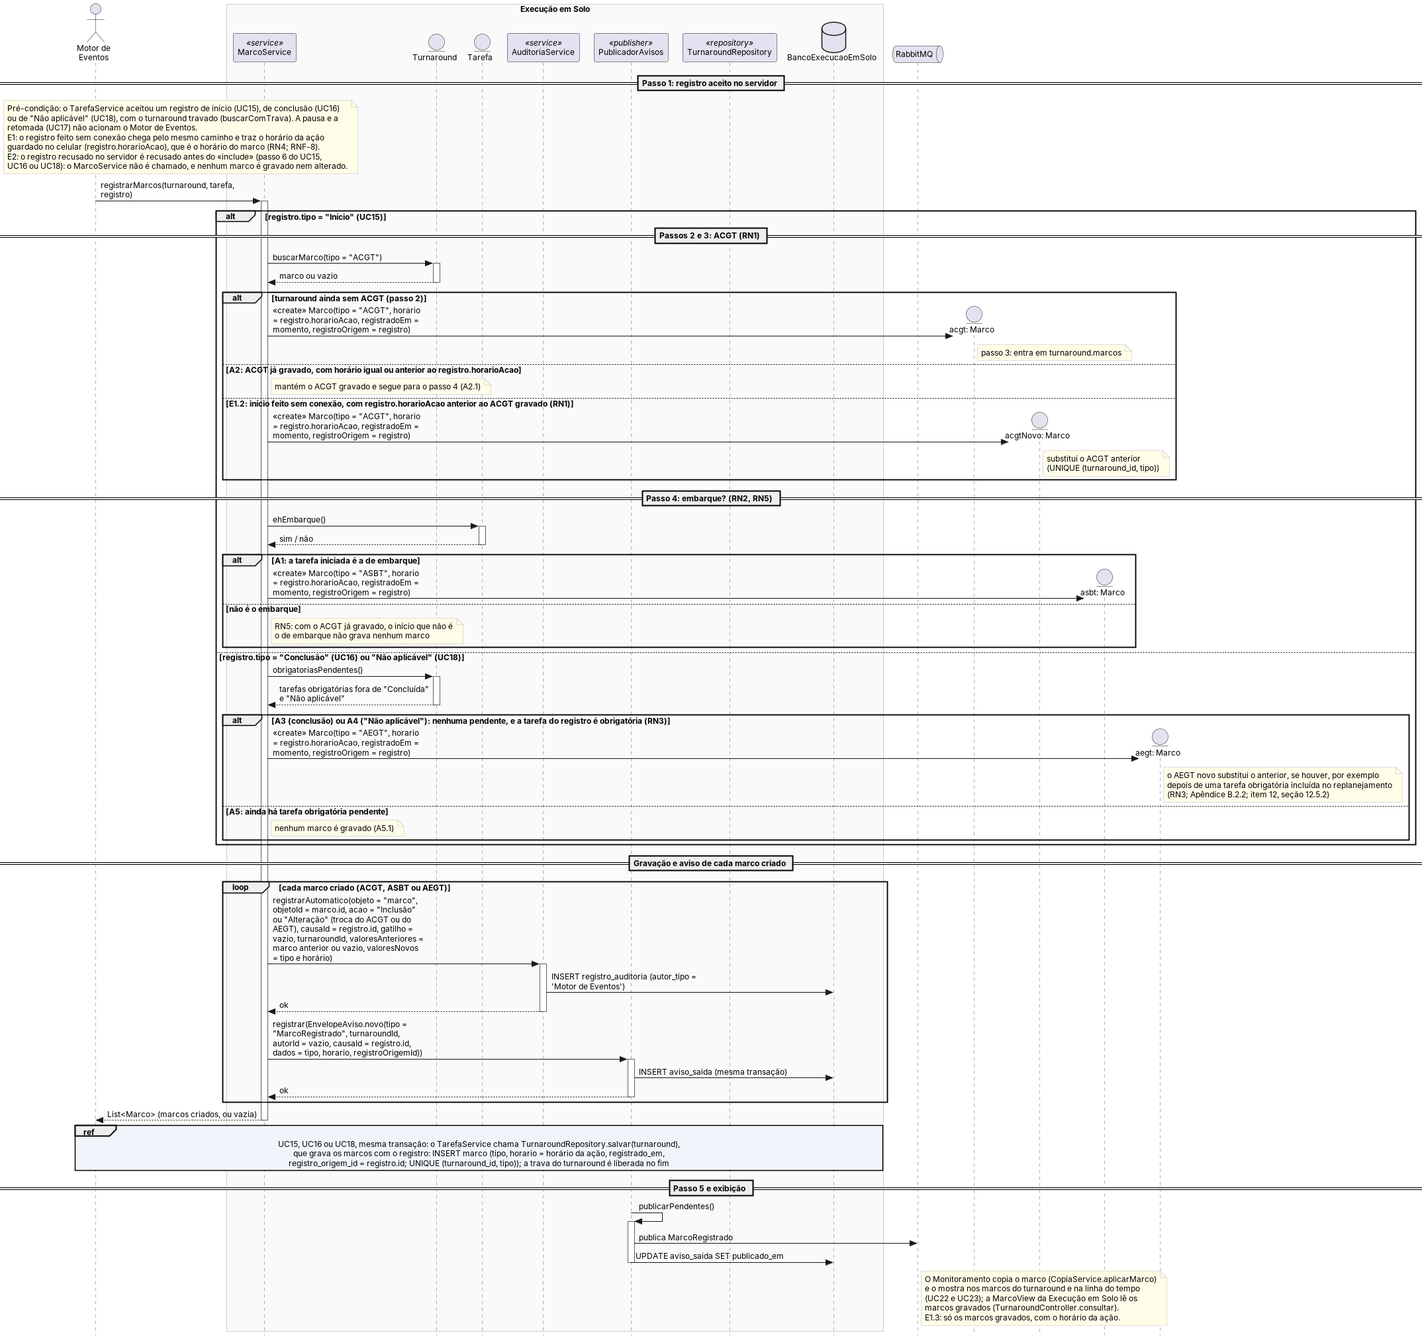
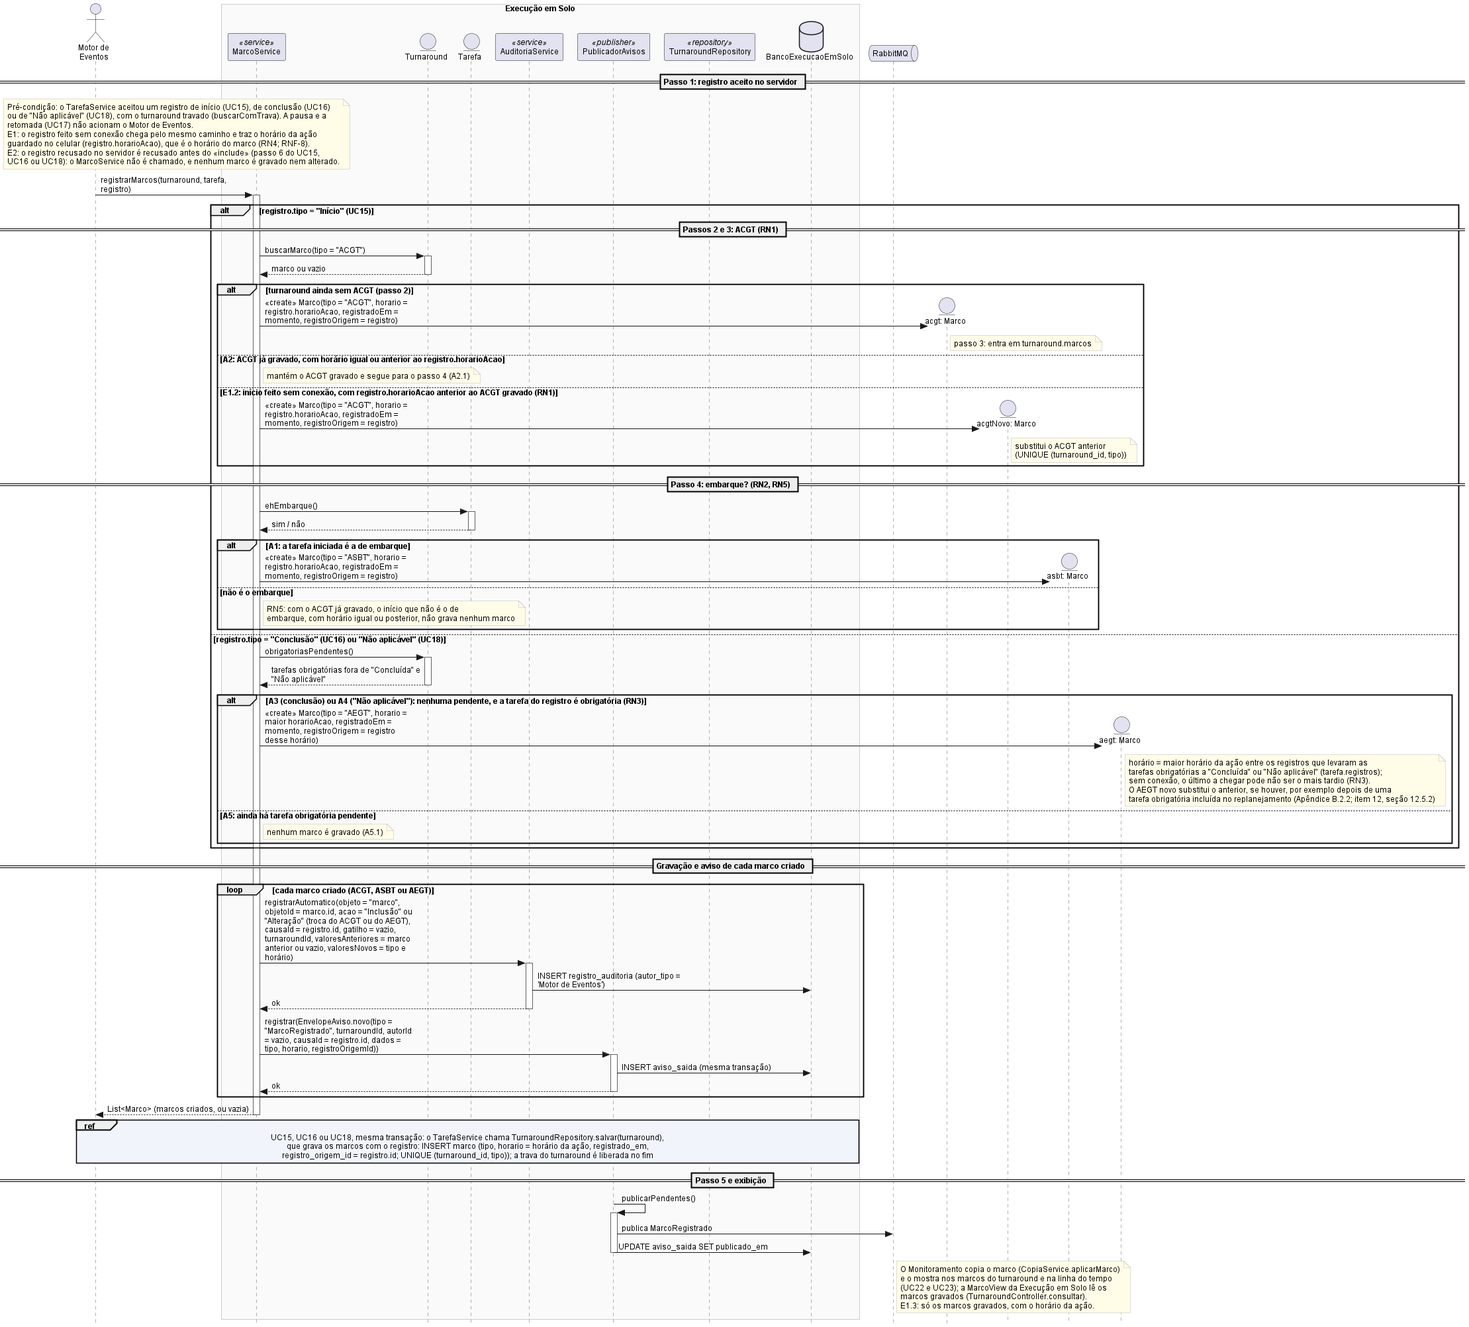
docs(area-b): ACGT e AEGT pelo horário da ação, com registro sem conexão (#179)
- Item 12 (12.5.2 e B.2.2), US020 critério 4 e UC20 RN5 acompanham a troca
  do ACGT pelo início sem conexão com horário anterior.
- AEGT passa a ser o maior horário da ação entre os registros que terminam
  as tarefas obrigatórias (RF-20; UC20 RN3, A3.1 e A4.1; diagrama do UC20):
  sem conexão, o último registro a chegar pode não ser o mais tardio.

diff --git a/especificacao/06-requisitos-funcionais/area-b.md b/especificacao/06-requisitos-funcionais/area-b.md
@@ -8,7 +8,7 @@
 | RF-17 | Pausar e retomar execução da tarefa | O sistema deve permitir ao Operador de Solo/Rampa pausar uma tarefa da sua equipe atribuída a ele, aceita só quando a tarefa está no estado "Em execução", com justificativa e, quando houver impedimento, com o código do motivo escolhido na tabela de códigos de atraso da Agência Nacional de Aviação Civil (ANAC) [62], que leva a tarefa ao estado "Pausada", e retomá-la, aceita só quando a tarefa está no estado "Pausada", que a devolve ao estado "Em execução". Cada registro grava o autor e o horário. | Operador de Solo/Rampa | Obj. 2 e 3 | 5 |
 | RF-18 | Marcar tarefa como "Não aplicável" | O sistema deve permitir ao Operador de Solo/Rampa marcar uma tarefa da sua equipe atribuída a ele como "Não aplicável", aceita só depois da chegada da aeronave à posição (RF-12) e antes do início da tarefa, quando o modelo de tarefas do turnaround permite essa marcação para ela, e com justificativa escrita, que leva a tarefa ao estado "Não aplicável". Cada registro grava o autor e o horário. | Operador de Solo/Rampa | Obj. 2 e 3 | 3 |
 | RF-19 | Confirmar execução da tarefa por QR Code | O sistema deve permitir ao Operador de Solo/Rampa confirmar, ponto a ponto, a execução de uma tarefa da sua equipe atribuída a ele pela leitura, com a câmera do celular, do QR Code fixado no ponto da aeronave correspondente (por exemplo, zona, fileira ou assento da cabine na limpeza), aceita só quando a tarefa está no estado "Em execução". Cada leitura grava o autor e o horário e marca o ponto como confirmado; o sistema recusa o QR Code que não pertença a uma tarefa da sua equipe atribuída a ele no turnaround. A conclusão da tarefa continua sendo registrada pelo RF-16. | Operador de Solo/Rampa | Obj. 2 | 3 |
-| RF-20 | Registrar marcos do atendimento em solo | O sistema deve registrar os marcos do atendimento em solo a partir dos registros dos operadores: o horário do primeiro início de tarefa no turnaround, isto é, o menor horário da ação entre os inícios registrados, como início real do atendimento em solo (ACGT), o horário do início da tarefa de embarque como início real do embarque (ASBT) e o horário do registro que leva a última tarefa obrigatória pendente aos estados "Concluída" ou "Não aplicável" como fim real do atendimento em solo (AEGT) [2][4]. Se um início feito sem conexão chegar depois do ACGT com horário da ação anterior a ele, o ACGT passa a ser esse horário. Se uma tarefa obrigatória entrar no plano depois do AEGT (RF-42) e terminar, o AEGT é gravado de novo com o horário desse registro e substitui o anterior. | Motor de Eventos | Obj. 1 | 4 |
+| RF-20 | Registrar marcos do atendimento em solo | O sistema deve registrar os marcos do atendimento em solo a partir dos registros dos operadores: o horário do primeiro início de tarefa no turnaround, isto é, o menor horário da ação entre os inícios registrados, como início real do atendimento em solo (ACGT), o horário do início da tarefa de embarque como início real do embarque (ASBT) e, quando a última tarefa obrigatória pendente passa aos estados "Concluída" ou "Não aplicável", o maior horário da ação entre os registros que levaram as tarefas obrigatórias a esses estados, como fim real do atendimento em solo (AEGT) [2][4]. Se um início feito sem conexão chegar depois do ACGT com horário da ação anterior a ele, o ACGT passa a ser esse horário. Se uma tarefa obrigatória entrar no plano depois do AEGT (RF-42) e terminar, o AEGT é gravado de novo pela mesma regra e substitui o anterior. | Motor de Eventos | Obj. 1 | 4 |
 | RF-21 | Propagar estado das tarefas e do turnaround | O sistema deve propagar o estado das tarefas e do turnaround a cada registro: quando o turnaround entra no estado "Em solo", com o registro do horário real de chegada à posição (AIBT) [2], cada tarefa sem predecessora passa de "Aguardando" para "Pronta"; quando o primeiro início de tarefa é registrado, o turnaround passa de "Em solo" para "Operações em andamento"; quando uma tarefa passa para "Concluída" ou "Não aplicável", cada tarefa sucessora cujas predecessoras estejam todas nesses dois estados passa de "Aguardando" para "Pronta"; quando todas as tarefas obrigatórias do turnaround estão nesses dois estados, o turnaround passa de "Operações em andamento" para "Pronto para liberação"; e, quando o Coordenador de Turnaround inclui uma tarefa no plano ou altera dependências (RF-42), cada tarefa não iniciada afetada fica "Pronta" se todas as suas predecessoras estão "Concluída" ou "Não aplicável" e fica ou volta a "Aguardando" se tem predecessora pendente. A tarefa do catálogo sob demanda ainda não acionada (ADR-0014) não conta como predecessora pendente. Se o plano for substituído depois da chegada e antes do primeiro início (ADR-0015, regra 5), cada tarefa do plano novo sem predecessora passa para "Pronta". Se todas as tarefas obrigatórias terminarem com o turnaround ainda em "Em solo", sem nenhum início registrado, o turnaround passa direto para "Pronto para liberação". Cada mudança de estado feita pela propagação é gravada com o horário e com o registro que a causou. | Motor de Eventos | Obj. 2 | 3 |
 | RF-44 | Registrar saída da posição e encerrar turnaround | O sistema deve permitir ao Operador de Solo/Rampa registrar o horário real de saída da posição (AOBT) [2] de um turnaround no estado "Liberado", depois da autorização de acionamento e push-back recebida fora do sistema, e com isso encerrar o turnaround no estado "Fora de bloco", recusando novos registros de tarefas e mantendo o histórico completo para consulta. O registro grava o autor e o horário. | Operador de Solo/Rampa | Obj. 3 | 6 |
 

diff --git a/especificacao/10-especificacoes-de-caso-de-uso/area-b.md b/especificacao/10-especificacoes-de-caso-de-uso/area-b.md
@@ -647,7 +647,7 @@
 | **Descrição** | A cada início, conclusão ou marcação de "Não aplicável" aceito, o Motor de Eventos grava no turnaround os marcos do atendimento em solo, a partir do horário do registro do operador, sem que ninguém precise digitá-los: o início real do atendimento em solo (ACGT), o início real do embarque (ASBT) e o fim real do atendimento em solo (AEGT) [2][4]. É incluído pelos casos de uso UC15, UC16 e UC18. Atende ao RF-20 e à US020. |
 | **Pré-condições** | 1. Um registro de início (UC15), de conclusão (UC16) ou de "Não aplicável" (UC18) de tarefa chegou ao servidor.<br>2. O turnaround tem, no modelo de tarefas, a tarefa de embarque e as tarefas obrigatórias identificadas. |
 | **Pós-condições** | os marcos que o registro determina estão gravados no turnaround, cada um com o horário e o registro de origem; os marcos que o registro não determina ficam como estavam. |
-| **Regras de negócio** | **RN1.** ACGT é o horário do primeiro início de tarefa no turnaround [2], isto é, o menor horário da ação entre os inícios registrados. O início feito sem conexão que chega depois do ACGT, com horário da ação anterior a ele, substitui o ACGT (RF-20; RNF-8).<br>**RN2.** ASBT é o horário do início da tarefa de embarque [2].<br>**RN3.** AEGT é o horário do registro que leva a última tarefa obrigatória pendente do turnaround a "Concluída" ou "Não aplicável" [4] (RF-20). Se uma tarefa obrigatória entrar no plano depois do AEGT, no replanejamento (UC35), e terminar, o AEGT é gravado de novo com o horário desse registro e substitui o anterior; a auditoria guarda o valor anterior (RF-20).<br>**RN4.** O horário de cada marco é o horário da ação do operador, inclusive no registro feito sem conexão, e não o horário de chegada ao servidor (RNF-8). [Inferência] É o que a régua do TOBT planejado + 5 minutos [2][3] (ADR-0001) precisa para medir a aderência.<br>**RN5.** O início de uma tarefa que não é a de embarque, com o ACGT já gravado, não grava nenhum marco (US020, critério 4).<br>**RN6.** [Fato] Os marcos e as siglas são os da tomada de decisão colaborativa em aeroportos (A-CDM) [2][4]; [Inferência] derivá-los dos registros de início, de conclusão e de "Não aplicável" é regra do projeto (RF-20). |
+| **Regras de negócio** | **RN1.** ACGT é o horário do primeiro início de tarefa no turnaround [2], isto é, o menor horário da ação entre os inícios registrados. O início feito sem conexão que chega depois do ACGT, com horário da ação anterior a ele, substitui o ACGT (RF-20; RNF-8).<br>**RN2.** ASBT é o horário do início da tarefa de embarque [2].<br>**RN3.** AEGT é gravado quando o registro leva a última tarefa obrigatória pendente do turnaround a "Concluída" ou "Não aplicável" [4], e o horário é o maior horário da ação entre os registros que levaram as tarefas obrigatórias a esses estados, com a referência a esse registro (RF-20). Com registros feitos sem conexão, o último a chegar pode ter horário da ação anterior ao de outra tarefa obrigatória já terminada; o fim real do atendimento é o mais tardio (RNF-8). Se uma tarefa obrigatória entrar no plano depois do AEGT, no replanejamento (UC35), e terminar, o AEGT é gravado de novo pela mesma regra e substitui o anterior; a auditoria guarda o valor anterior (RF-20).<br>**RN4.** O horário de cada marco é o horário da ação do operador, inclusive no registro feito sem conexão, e não o horário de chegada ao servidor (RNF-8). [Inferência] É o que a régua do TOBT planejado + 5 minutos [2][3] (ADR-0001) precisa para medir a aderência.<br>**RN5.** O início de uma tarefa que não é a de embarque, com o ACGT já gravado e horário da ação igual ou posterior a ele, não grava nenhum marco (US020, critério 4); com horário anterior, troca o ACGT (RN1).<br>**RN6.** [Fato] Os marcos e as siglas são os da tomada de decisão colaborativa em aeroportos (A-CDM) [2][4]; [Inferência] derivá-los dos registros de início, de conclusão e de "Não aplicável" é regra do projeto (RF-20). |
 | **Protótipo(s) de tela** | Marcos do turnaround (ACGT, ASBT e AEGT) com os horários gravados, no detalhe do turnaround.<br>![UC20 – marcos do turnaround](prototipos/uc-b7-marcos-do-turnaround.png) |
 
 ### Fluxo básico
@@ -683,7 +683,7 @@
 
 | Ações do ator | Ações do sistema |
 |---|---|
-| A3.1. O Motor de Eventos grava o horário da ação como AEGT, com a referência ao registro. |  |
+| A3.1. O Motor de Eventos grava como AEGT o maior horário da ação entre os registros que levaram as tarefas obrigatórias a "Concluída" ou "Não aplicável", com a referência a esse registro (RN3). |  |
 |  | A3.2. O sistema exibe o AEGT nos marcos do turnaround, e o caso de uso termina. |
 
 ### Fluxo alternativo A4 – Última tarefa obrigatória marcada como "Não aplicável" (passo 1)
@@ -692,7 +692,7 @@
 
 | Ações do ator | Ações do sistema |
 |---|---|
-| A4.1. O Motor de Eventos grava o horário da marcação como AEGT, com a referência ao registro. |  |
+| A4.1. O Motor de Eventos grava como AEGT o maior horário da ação entre os registros que levaram as tarefas obrigatórias a "Concluída" ou "Não aplicável", com a referência a esse registro (RN3). |  |
 |  | A4.2. O sistema exibe o AEGT nos marcos do turnaround, e o caso de uso termina. |
 
 ### Fluxo alternativo A5 – Conclusão ou "Não aplicável" que não é a última obrigatória (passo 1)

diff --git a/CHANGELOG.md b/CHANGELOG.md
@@ -45,7 +45,7 @@ Cada versão entregue tem uma tag Git `vX.Y.Z` no commit que gerou o PDF enviado
 
 ### Alterado
 
-- Área B, pendências da #179 (regras que outras áreas supunham e nenhum RF ou UC dizia): o ACGT passa a ser o menor horário da ação entre os inícios, e o início feito sem conexão que chega depois com horário anterior troca o ACGT (RF-20; UC20, RN1 e E1.2); o AEGT é gravado de novo quando uma tarefa obrigatória incluída depois dele termina (RF-20; UC20, RN3); a tarefa do catálogo sob demanda não acionada não segura a sucessora (RF-21; UC21, RN1); o plano substituído depois da chegada deixa "Pronta" as tarefas novas sem predecessora (RF-21; UC21, RN2 e A7); com todas as obrigatórias terminadas sem nenhum início, o turnaround vai de "Em solo" direto para "Pronto para liberação" (RF-21; UC21, RN3 e A4); e o "Não aplicável" só é aceito depois da chegada (RF-18; UC18, RN1 e E2). Os diagramas de sequência do UC18, do UC20 e do UC21 acompanham. A ADR-0018 passa a dizer que a tarefa e o ponto guardam o UUID do plano, cita a lista de operadores disponíveis (RF-43) e a chave do plano (ADR-0023, ponto 5) e registra as ferramentas de teste do site (Vitest e Playwright, como na ADR-0020) ([#179](https://github.com/Aircraft-Turnaround-Operations-Manager/aircraft-turnaround-docs/issues/179)).
+- Área B, pendências da #179 (regras que outras áreas supunham e nenhum RF ou UC dizia): o ACGT passa a ser o menor horário da ação entre os inícios, e o início feito sem conexão que chega depois com horário anterior troca o ACGT (RF-20; UC20, RN1, RN5 e E1.2; US020, critério 4; item 12, seção 12.5.2 e Apêndice B.2.2); o AEGT passa a ser o maior horário da ação entre os registros que terminam as tarefas obrigatórias, porque, sem conexão, o último registro a chegar pode não ser o mais tardio (RF-20; UC20, RN3, A3.1 e A4.1), e é gravado de novo quando uma tarefa obrigatória incluída depois dele termina; a tarefa do catálogo sob demanda não acionada não segura a sucessora (RF-21; UC21, RN1); o plano substituído depois da chegada deixa "Pronta" as tarefas novas sem predecessora (RF-21; UC21, RN2 e A7); com todas as obrigatórias terminadas sem nenhum início, o turnaround vai de "Em solo" direto para "Pronto para liberação" (RF-21; UC21, RN3 e A4); e o "Não aplicável" só é aceito depois da chegada (RF-18; UC18, RN1 e E2). Os diagramas de sequência do UC18, do UC20 e do UC21 acompanham. A ADR-0018 passa a dizer que a tarefa e o ponto guardam o UUID do plano, cita a lista de operadores disponíveis (RF-43) e a chave do plano (ADR-0023, ponto 5) e registra as ferramentas de teste do site (Vitest e Playwright, como na ADR-0020) ([#179](https://github.com/Aircraft-Turnaround-Operations-Manager/aircraft-turnaround-docs/issues/179)).
 - Plano do RA2: o critério C13.8 (métodos pedidos pelos diagramas de sequência) passa da T13 para a T14. A T14 depende das classes, e o C13.8 só pode ser conferido com os diagramas, então as duas tarefas se bloqueavam em círculo. A #145 foi fechada com os outros nove critérios, e a #146 ganhou o C13.8 ([#146](https://github.com/Aircraft-Turnaround-Operations-Manager/aircraft-turnaround-docs/issues/146)).
 - ADR-0020: a linha do ponto 2 (porta de entrada) deixa de dizer que o formato da identidade está "a combinar" e cita a ADR-0023: o serviço confere o token interno assinado e lê dele o usuário, o perfil e a companhia da Autoridade de Liberação (RF-39); as consultas automáticas não renovam a sessão (RNF-5) ([#143](https://github.com/Aircraft-Turnaround-Operations-Manager/aircraft-turnaround-docs/issues/143)).
 - Os 44 RFs ganharam um título no padrão Ação-Resultado-Objeto (ARO), numa coluna nova (TÍTULO) do item 6. É a anotação 1 do professor na correção do RA1. 23 títulos mudaram e foram levados também para as estórias (item 7), para a matriz (Apêndice A) e para os 16 casos de uso que tinham o mesmo nome, nos itens 9 e 10. O RF-18 e o RF-41 ficaram com o título antigo, porque no ARO perderiam informação: o nome do estado "Não aplicável" e a condição dos 5 minutos ([#139](https://github.com/Aircraft-Turnaround-Operations-Manager/aircraft-turnaround-docs/issues/139)).

diff --git a/especificacao/12-modelo-de-dados.md b/especificacao/12-modelo-de-dados.md
@@ -120,7 +120,7 @@ Cada diagrama mostra as tabelas de negócio do serviço com as suas chaves estra
 
 - **Dona do estado.** `turnaround` e `tarefa` guardam o estado do turnaround e das tarefas (ADR-0015). O estado do turnaround fica vazio até o AIBT, porque antes da chegada nenhum dos seis estados vale. O estado da tarefa fica vazio no item do catálogo sob demanda ainda não acionado; o acionamento (RF-42) o leva a "Aguardando" ou "Pronta". Um item do catálogo não acionado não segura a sucessora na propagação (RF-21) nem impede "Pronto para liberação".
 - **Histórico.** `historico_estado_turnaround` e `historico_estado_tarefa` guardam cada mudança de estado com o autor (vazio quando é o Motor de Eventos) e o registro que a causou (RF-21).
-- **Marcos.** `marco` guarda AIBT, ACGT, ASBT, AEGT e AOBT, um de cada por turnaround. AIBT e AOBT têm o Operador de Solo/Rampa como autor (RF-12, RF-44); ACGT, ASBT e AEGT vêm do registro de tarefa que os gerou (RF-20). O horário desses três repete o `horario_acao` do registro de origem; a repetição é aceita porque o marco é lido sozinho pelas telas e pelo aviso ao Monitoramento. Se uma tarefa obrigatória for incluída depois de "Pronto para liberação", o novo AEGT substitui o anterior. `correcao_aibt` guarda cada correção do AIBT (RF-13, ADR-0013).
+- **Marcos.** `marco` guarda AIBT, ACGT, ASBT, AEGT e AOBT, um de cada por turnaround. AIBT e AOBT têm o Operador de Solo/Rampa como autor (RF-12, RF-44); ACGT, ASBT e AEGT vêm do registro de tarefa que os gerou (RF-20). O horário desses três repete o `horario_acao` do registro de origem; a repetição é aceita porque o marco é lido sozinho pelas telas e pelo aviso ao Monitoramento. O ACGT é o menor horário da ação entre os inícios, e o AEGT, o maior entre os registros que terminam as tarefas obrigatórias: o início feito sem conexão que chega depois com horário anterior troca o ACGT, e, se uma tarefa obrigatória for incluída depois de "Pronto para liberação", o novo AEGT substitui o anterior (RF-20). `correcao_aibt` guarda cada correção do AIBT (RF-13, ADR-0013).
 - **Registros feitos sem conexão.** `registro_tarefa`, `leitura_qr_code` e `correcao_aibt` têm a chave de envio `requisicao_id`, única, para que repetir a mesma requisição não grave de novo, e guardam o horário da ação separado do horário de recebimento (RNF-8, ADR-0018).
 - **Ordem dos avisos de tarefa.** `tarefa.versao` conta as mudanças da tarefa e vai em todo aviso de tarefa. O Monitoramento só aplica um aviso de versão maior que a última que recebeu; comparar pelo horário descartaria o registro feito sem conexão que chega depois.
 - **Códigos de atraso.** A tabela da ANAC tem 72 códigos de duas letras em 12 categorias [62]; cada carga cria uma versão, e as linhas de uma versão nunca mudam (RNF-22). O registro de pausa aponta para o código pela versão e pela sigla e, por isso, continua mostrando o código usado mesmo depois de uma nova versão.

diff --git a/especificacao/07-estorias-de-usuario/area-b.md b/especificacao/07-estorias-de-usuario/area-b.md
@@ -135,7 +135,7 @@
 | 1 | **DADO QUE:** nenhuma tarefa do turnaround foi iniciada <br> **QUANDO:** o Operador de Solo/Rampa registra o início da primeira tarefa <br> **ENTÃO:** o sistema grava o horário desse registro como início real do atendimento em solo (ACGT) [2] no turnaround |
 | 2 | **DADO QUE:** a tarefa de embarque está no estado "Pronta" <br> **QUANDO:** o Operador de Solo/Rampa registra o início dessa tarefa <br> **ENTÃO:** o sistema grava o horário desse registro como início real do embarque (ASBT) [2] no turnaround |
 | 3 | **DADO QUE:** todas as demais tarefas obrigatórias do turnaround estão nos estados "Concluída" ou "Não aplicável" <br> **QUANDO:** o Operador de Solo/Rampa registra a conclusão da última tarefa obrigatória <br> **ENTÃO:** o sistema grava o horário desse registro como fim real do atendimento em solo (AEGT) [2] no turnaround |
-| 4 | **DADO QUE:** o ACGT do turnaround já foi gravado <br> **QUANDO:** o Operador de Solo/Rampa registra o início de outra tarefa que não é a de embarque <br> **ENTÃO:** o sistema mantém o ACGT gravado e não grava nenhum outro marco |
+| 4 | **DADO QUE:** o ACGT do turnaround já foi gravado <br> **QUANDO:** o Operador de Solo/Rampa registra o início de outra tarefa que não é a de embarque, com horário da ação igual ou posterior ao ACGT <br> **ENTÃO:** o sistema mantém o ACGT gravado e não grava nenhum outro marco |
 | 5 | **DADO QUE:** todas as demais tarefas obrigatórias do turnaround estão nos estados "Concluída" ou "Não aplicável" e a última tarefa obrigatória pendente ainda não foi iniciada <br> **QUANDO:** o Operador de Solo/Rampa marca essa tarefa como "Não aplicável" <br> **ENTÃO:** o sistema grava o horário dessa marcação como AEGT no turnaround |
 
 ## US021 – REQUISITO RF-21: Propagar estado das tarefas e do turnaround

diff --git a/especificacao/apendice-b-dicionario-de-dados.md b/especificacao/apendice-b-dicionario-de-dados.md
@@ -367,7 +367,7 @@ Marcos do A-CDM gravados pela Execução em Solo (RF-12, RF-20, RF-44). RFs: RF-
 
 **Restrições:**
 
-- UNIQUE (turnaround_id, tipo); um AEGT novo substitui o anterior
+- UNIQUE (turnaround_id, tipo); o início sem conexão com horário anterior troca o ACGT, e um AEGT novo substitui o anterior (RF-20)
 - CHECK: AIBT e AOBT com autor_id; ACGT, ASBT e AEGT com registro_origem_id
 
 ### B.2.3 `correcao_aibt`
